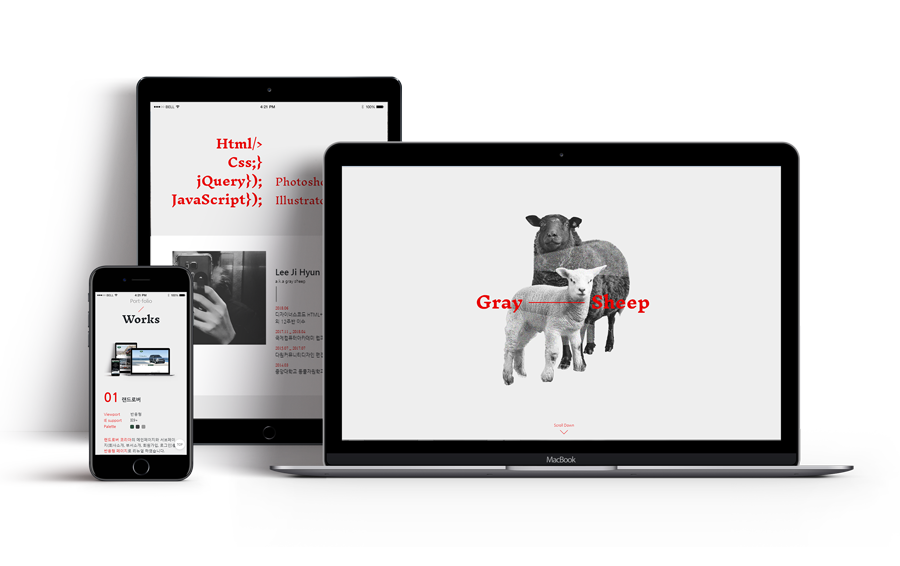
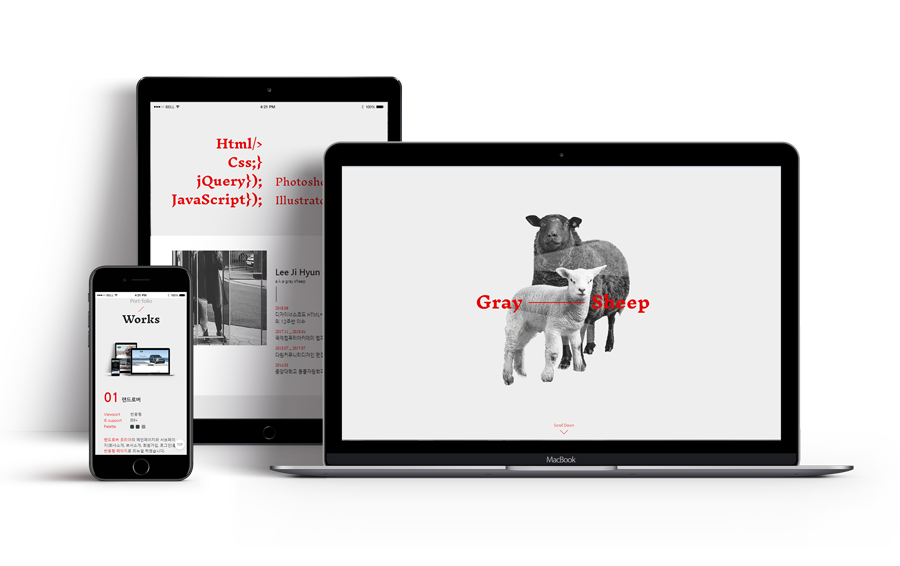
change phone number and profile photo

Changed region(s): [[0.1867, 0.4205, 0.3111, 0.6307]]

diff --git a/index.html b/index.html
@@ -77,7 +77,7 @@
         <!--container end-->
         <div class="container-fluid introduce">
             <div class="row ">
-                <div class="col-md-6"><img src="img/profile.png" alt="이지현 사진" style="width: 100%;"></div>
+                <div class="col-md-6"><img src="img/profile.jpg" alt="이지현 사진" style="width: 100%;"></div>
                 <div class="col-md-6">
                     <h3>Lee Ji Hyun <span>이지현 1991.12.29</span></h3>
                     <h4>a.k.a gray sheep</h4>
@@ -506,7 +506,7 @@
                             <li>
                                 <span title="전화">
                         <i class="fas fa-mobile-alt"></i> <br>
-                        <span class="iconed-text">010_5607_1229</span>
+                        <span class="iconed-text">010_8210_1290</span>
                                 </span>
                             </li>
                             <li>
